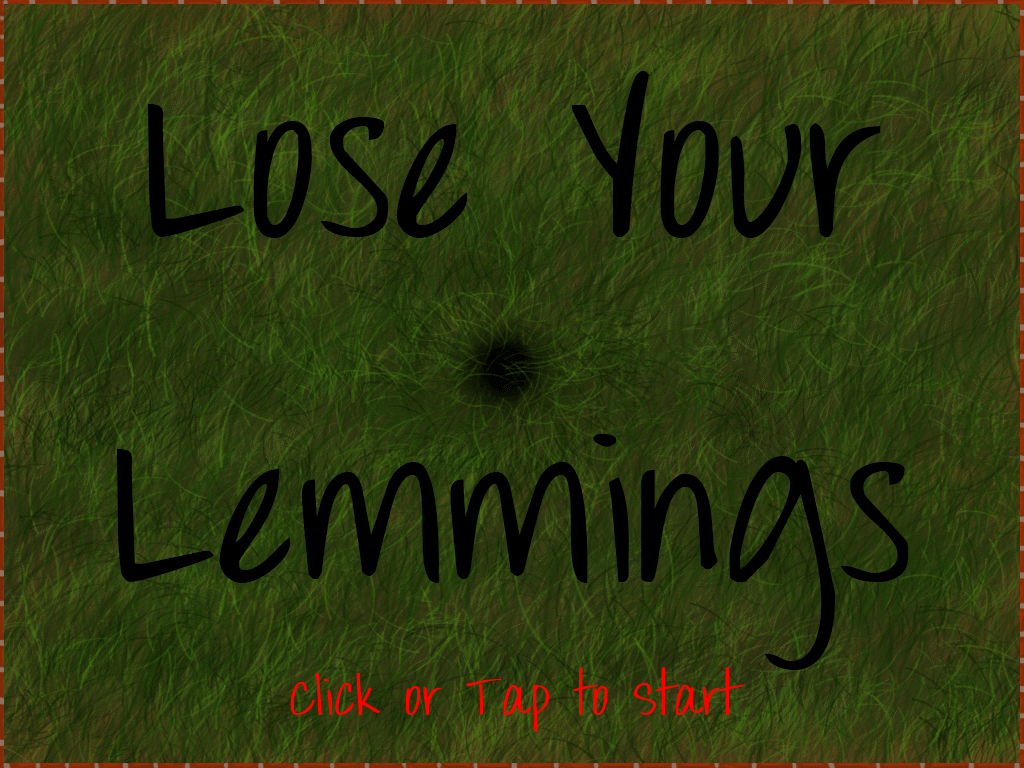
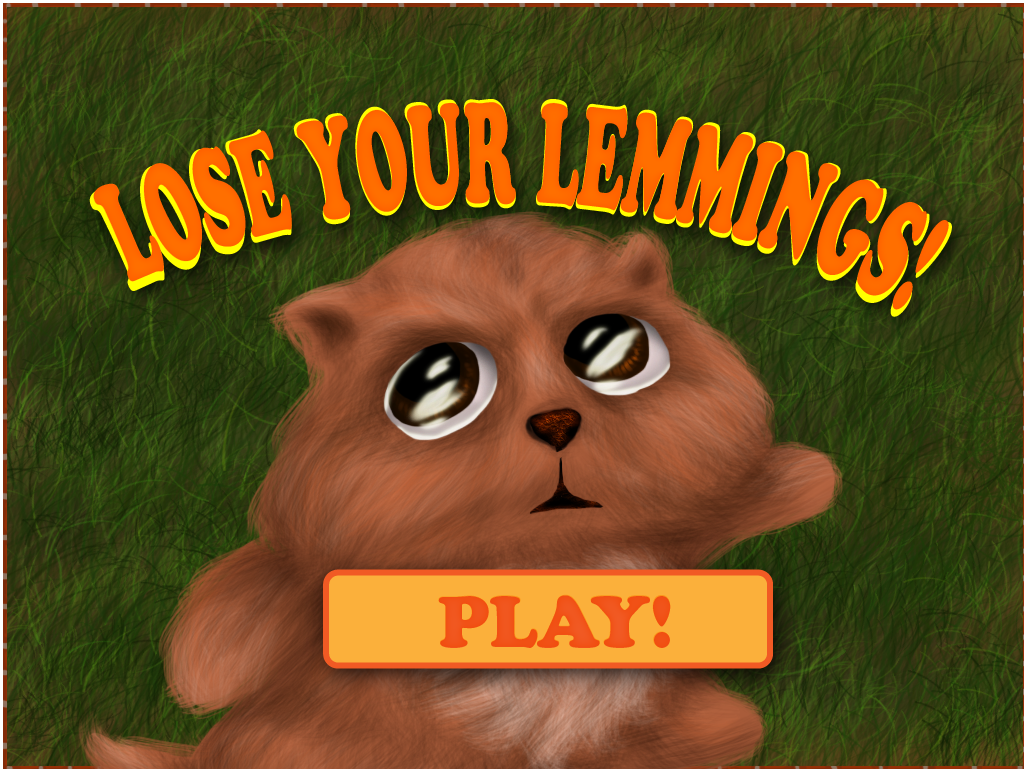
added end game screens and updated start game screen

diff --git a/www/server.js b/www/server.js
@@ -307,6 +307,36 @@ io.sockets.on('connection', function (socket) {
   	});
 
 	// when a entity is updated on an active client, send data to other clients
+  	socket.on('game-win', function (data) {
+  		socket.emit('game-won');
+  		
+  		if(data.id == player1) {
+  			clients[player1].disconnect();
+  			
+	  		clients[player2].emit('game-lost');
+	  		clients[player2].disconnect();
+  		} else {
+  			clients[player2].disconnect();
+  			
+	  		clients[player1].emit('game-lost');
+	  		clients[player1].disconnect();
+  		}
+  		delete clients[player1];
+  		delete clients[player2];
+    	player1 = false;
+    	player2 = false;
+    	
+    	//kill all entities
+    	for(var id in entities) {
+    		console.log("killing entity " + id);
+    		io.sockets.emit('entity-kill', entities[id]);
+    	}
+    	entities = {};
+    	
+		io.sockets.emit('game-over');
+  	});
+
+	// when a entity is updated on an active client, send data to other clients
   	socket.on('lemmegeddon', function () {
     	player1 = false;
     	player2 = false;

diff --git a/www/arena.html b/www/arena.html
@@ -79,6 +79,24 @@
 	  	socket.disconnect();
 	  });
 	  
+	  socket.on('game-won', function(data) {
+	  	var el = document.getElementById('canvas');
+	  	el.classList.add('game-won');
+	  	socket.disconnect();
+	  });
+	  
+	  socket.on('game-lost', function(data) {
+	  	var el = document.getElementById('canvas');
+	  	el.classList.add('game-lost');
+	  	socket.disconnect();
+	  });
+	  
+	  socket.on('game-over', function(data) {
+	  	var el = document.getElementById('canvas');
+	  	el.classList.add('game-over');
+	  	socket.disconnect();
+	  });
+	  
 	  socket.on('entity-kill', function(data) {
 	  	var entity = cp.game.entityGetVal('id',data.id)[0];
 	  	console.log('killing entity', entity, data);

diff --git a/www/style/style.css b/www/style/style.css
@@ -93,6 +93,18 @@ body {
 	background: url(../images/lemmegeddon.jpg);
 }
 
+#canvas.game-won {
+	background: url(../images/end-win.jpg);
+}
+
+#canvas.game-lost {
+	background: url(../images/end-lose.jpg);
+}
+
+#canvas.game-over {
+	background: url(../images/end-generic.jpg);
+}
+
 body.admin {
 	margin: 10px;
 }
